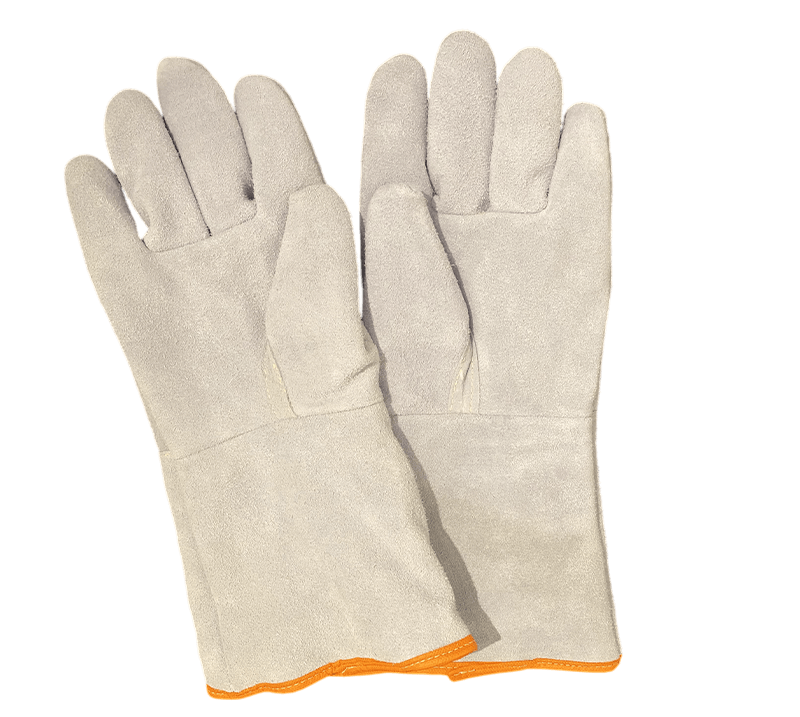
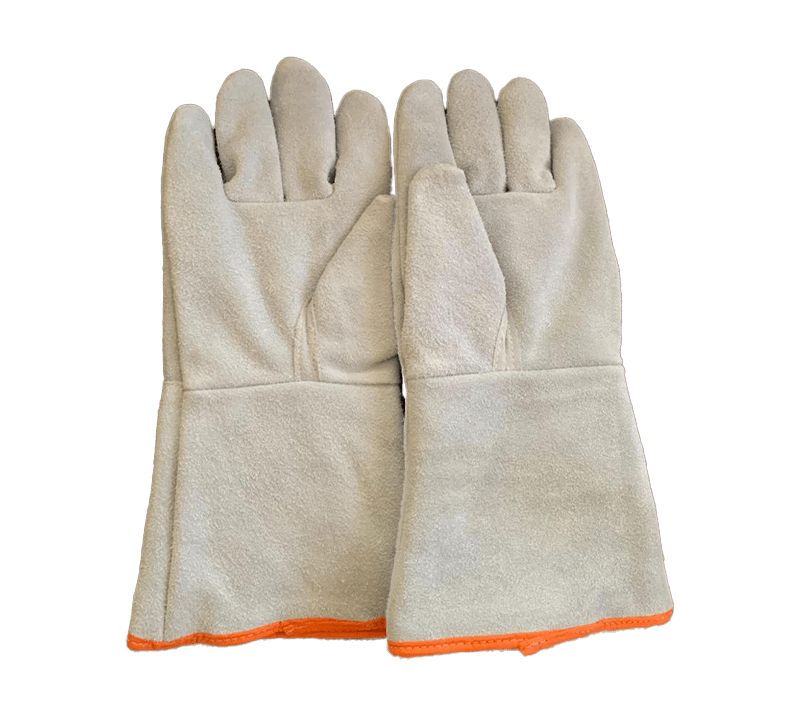
Add files via upload

diff --git a/app/page.tsx b/app/page.tsx
@@ -93,33 +93,29 @@ const products = [
   },
 ];
 
-
 export default function Home() {
   const [selectedProduct, setSelectedProduct] = useState(products[0]);
   const [currentImage, setCurrentImage] = useState(0);
   const [showMobileDetail, setShowMobileDetail] = useState(false);
 
-  // Para o efeito de lupa
   const imgContainerRef = useRef<HTMLDivElement | null>(null);
-  const [lensVisible, setLensVisible] = useState(false);
-  const [lensPos, setLensPos] = useState({ x: 0, y: 0 });
-  const [lensBgPos, setLensBgPos] = useState({ x: "0%", y: "0%" });
 
-  const LENS_SIZE = 200; // tamanho do quadrado da lupa
-  const ZOOM_FACTOR = 0.7; // intensidade do zoom
+  const [isZoomEnabled, setIsZoomEnabled] = useState(false);
+
+
 
   const [isDesktop, setIsDesktop] = useState(false);
 
-useEffect(() => {
-  // Detecta se há mouse (telas desktop)
-  const checkDesktop = window.matchMedia("(pointer: fine)").matches;
-  setIsDesktop(checkDesktop);
+  useEffect(() => {
+    const checkDesktop = window.matchMedia("(pointer: fine)").matches;
+    setIsDesktop(checkDesktop);
 
-  // Também atualiza se redimensionar
-  const listener = () => setIsDesktop(window.matchMedia("(pointer: fine)").matches);
-  window.addEventListener("resize", listener);
-  return () => window.removeEventListener("resize", listener);
-}, []);
+    const listener = () =>
+      setIsDesktop(window.matchMedia("(pointer: fine)").matches);
+
+    window.addEventListener("resize", listener);
+    return () => window.removeEventListener("resize", listener);
+  }, []);
 
   const handleNextImage = () => {
     setCurrentImage((prev) => (prev + 1) % selectedProduct.images.length);
@@ -135,34 +131,6 @@ useEffect(() => {
     setSelectedProduct(product);
     setCurrentImage(0);
     setShowMobileDetail(true);
-  };
-
-  const handleMouseEnter = (e: React.MouseEvent) => {
-    if (!imgContainerRef.current) return;
-    setLensVisible(true);
-    handleMouseMove(e);
-  };
-
-  const handleMouseLeave = () => {
-    setLensVisible(false);
-  };
-
-  const handleMouseMove = (e: React.MouseEvent) => {
-    const container = imgContainerRef.current;
-    if (!container) return;
-
-    const rect = container.getBoundingClientRect();
-    const x = e.clientX - rect.left;
-    const y = e.clientY - rect.top;
-    const cx = Math.max(0, Math.min(x, rect.width));
-    const cy = Math.max(0, Math.min(y, rect.height));
-    const left = cx - LENS_SIZE / 2;
-    const top = cy - LENS_SIZE / 2;
-    setLensPos({ x: left, y: top });
-
-    const bgXPercent = (cx / rect.width) * 100;
-    const bgYPercent = (cy / rect.height) * 100;
-    setLensBgPos({ x: `${bgXPercent}%`, y: `${bgYPercent}%` });
   };
 
   return (
@@ -192,62 +160,64 @@ useEffect(() => {
         {/* Lado esquerdo: Detalhes */}
         <div
           className={`w-full sm:w-2/6 bg-white p-6 border border-black/80 flex flex-col mb-20 absolute sm:relative 
-          ${showMobileDetail ? "fixed top-1/5 left-0 z-50 block sm:flex h-[70%] bg-white p-6" : "hidden sm:flex"}`}
+          ${
+            showMobileDetail
+              ? "fixed top-1/5 left-0 z-50 block sm:flex h-[70%] bg-white p-6"
+              : "hidden sm:flex"
+          }`}
         >
-          <div
+       {/* IMAGEM */}
+        <div
           ref={imgContainerRef}
-          className="w-full h-[48%] relative overflow-hidden bg-white flex items-center justify-center"
-          {...(isDesktop
-            ? {
-                onMouseEnter: handleMouseEnter,
-                onMouseMove: handleMouseMove,
-                onMouseLeave: handleMouseLeave,
-              }
-            : {})}
+          className={`w-full h-[48%] relative overflow-hidden bg-white flex items-center justify-center ${
+            isZoomEnabled ? "zoom-active" : ""
+          }`}
+          onMouseMove={(e) => {
+            if (!isZoomEnabled) return;
+
+            const container = imgContainerRef.current;
+            if (!container) return;
+
+            const rect = container.getBoundingClientRect();
+            const x = ((e.clientX - rect.left) / rect.width) * 100;
+            const y = ((e.clientY - rect.top) / rect.height) * 100;
+
+            container.style.setProperty("--zoom-x", `${x}%`);
+            container.style.setProperty("--zoom-y", `${y}%`);
+          }}
+          onMouseEnter={() => setIsZoomEnabled(true)}
+          onMouseLeave={() => setIsZoomEnabled(false)}
         >
+          <img
+            src={selectedProduct.images[currentImage]}
+            alt={selectedProduct.name}
+            className="zoom-image select-none pointer-events-none"
+            draggable={false}
+          />
 
-            <img
-              src={selectedProduct.images[currentImage]}
-              alt={selectedProduct.name}
-              className="w-full h-full object-contain select-none pointer-events-none"
-              draggable={false}
-            />
+          {/* SETA ESQUERDA */}
+          <button
+            onClick={handlePrevImage}
+            className="absolute top-1/2 left-2 -translate-y-1/2 cursor-pointer text-3xl sm:text-[2vw] text-gray-600 hover:text-red-700 px-2 pr-4 py-2 z-50 bg-white/70"
+            onMouseEnter={() => setIsZoomEnabled(false)}  // 👈 DESATIVA ZOOM
+            onMouseLeave={() => setIsZoomEnabled(true)}   // 👈 ATIVA QUANDO SAI
+          >
+            ◀
+          </button>
 
-            <button
-              onClick={handlePrevImage}
-              className="absolute top-1/2 left-2 -translate-y-1/2 cursor-pointer text-3xl sm:text-[2vw] text-gray-600 hover:text-red-700 px-2 pr-4 py-2  z-50 bg-white/70 "
-            >
-              ◀
-            </button>
-            <button
-              onClick={handleNextImage}
-              className="absolute top-1/2 right-2 -translate-y-1/2 cursor-pointer text-3xl sm:text-[2vw] text-gray-600 hover:text-red-700 px-2 pl-4 py-2 z-50 bg-white/60 "
-            >
-              ▶
-            </button>
+  {/* SETA DIREITA */}
+  <button
+    onClick={handleNextImage}
+    className="absolute top-1/2 right-2 -translate-y-1/2 cursor-pointer text-3xl sm:text-[2vw] text-gray-600 hover:text-red-700 px-2 pl-4 py-2 z-50 bg-white/60"
+    onMouseEnter={() => setIsZoomEnabled(false)}
+    onMouseLeave={() => setIsZoomEnabled(true)}
+  >
+    ▶
+  </button>
+</div>
 
-            {/* Lente de zoom */}
-            {lensVisible && (
-              <div
-                className="absolute z-30 pointer-events-none  shadow-lg  "
-                style={{
-                  width: `${LENS_SIZE}px`,
-                  height: `${LENS_SIZE}px`,
-                  left: `${lensPos.x}px`,
-                  top: `${lensPos.y}px`,
-                  backgroundImage: `url(${selectedProduct.images[currentImage]})`,
-                  backgroundRepeat: "no-repeat",
-                  backgroundSize: `${
-                    imgContainerRef.current
-                      ? imgContainerRef.current.getBoundingClientRect().width *
-                        ZOOM_FACTOR
-                      : 100
-                  }% auto`,
-                  backgroundPosition: `${lensBgPos.x} ${lensBgPos.y}`,
-                }}
-              />
-            )}
-          </div>
+
+
 
           <h3 className="mt-4 text-xl font-semibold text-left">
             {selectedProduct.name}
@@ -268,7 +238,7 @@ useEffect(() => {
           </button>
         </div>
 
-        {/* Lado direito: Cards */}
+        {/* Cards */}
         <div className="grid grid-cols-1 sm:grid-cols-2 md:grid-cols-3 lg:grid-cols-4 gap-8 w-full sm:w-4/6">
           {products.map((product) => (
             <ProductCard
@@ -276,7 +246,7 @@ useEffect(() => {
               id={product.id}
               name={product.name}
               refs={product.refs}
-              image={product.images[1]} // sempre a segunda imagem (luva0X-2)
+              image={product.images[0]}
               selected={selectedProduct.id === product.id}
               onClick={() => handleCardClick(product)}
             />

diff --git a/app/globals.css b/app/globals.css
@@ -41,3 +41,15 @@ body {
 ::-webkit-scrollbar-thumb {
   background-color: #c10007;
 }
+
+.zoom-image {
+  width: 100%;
+  height: auto;
+  transition: transform 0.2s ease;
+  transform-origin: var(--zoom-x) var(--zoom-y);
+}
+
+.zoom-active .zoom-image {
+  transform: scale(1.8);
+}
+
